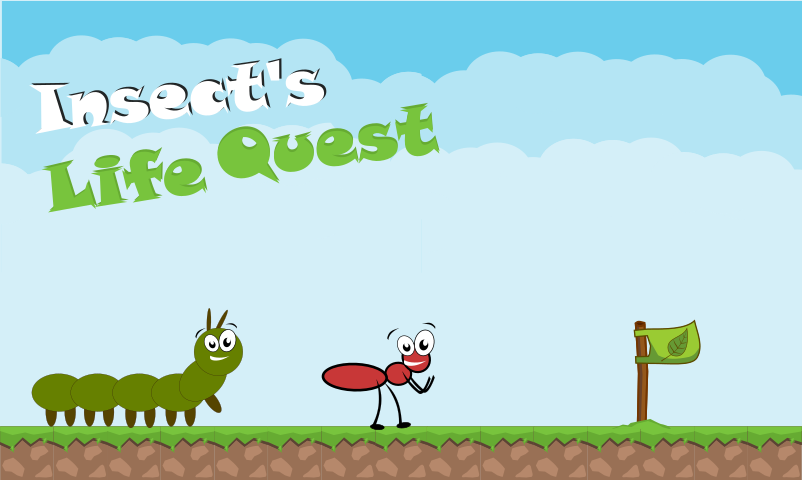
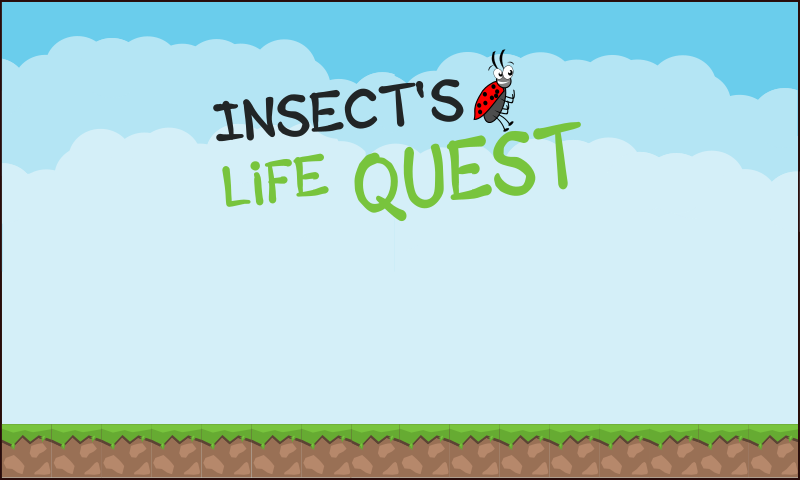
changed game menu

diff --git a/core/src/com/gstrzal/insects/screens/MenuScreen.java b/core/src/com/gstrzal/insects/screens/MenuScreen.java
@@ -23,12 +23,18 @@ import com.gstrzal.insects.utils.GdxUtils;
 
 public class MenuScreen extends ScreenAdapter {
 
-    private static final int PLAY_BUTTON_X = 510;
-    private static final int PLAY_BUTTON_Y = 330;
+    private static final int PLAY_BUTTON_Y = (int)GameConfig.SCREEN_HEIGHT_PX/5;
+    private static final int BUTTONS_Y = PLAY_BUTTON_Y + 6;
+    private static final int OPTIONS_BUTTON_X = 100;
+    private static final int SELECT_LEVELS_BUTTON_X = 525;
 
     private Texture backgroundTexture;
     private Texture playTexture;
     private Texture playPressTexture;
+    private Texture optionsTexture;
+    private Texture optionsPressTexture;
+    private Texture selectLevelsTexture;
+    private Texture selectLevelsPressTexture;
 
     private Stage stage;
     private final Insects game;
@@ -48,12 +54,13 @@ public class MenuScreen extends ScreenAdapter {
         Image background = new Image(backgroundTexture);
         stage.addActor(background);
 
+        //Play Button
         playTexture = assetManager.get(Constants.MENU_PLAYBUTTON);
-        playPressTexture = assetManager.get(Constants.MENU_PLAYBUTTON_ACTIVE);
+        playPressTexture = assetManager.get(Constants.MENU_PLAYBUTTON_PRESSED);
         ImageButton play = new ImageButton(
                 new TextureRegionDrawable(new TextureRegion(playTexture)),
                 new TextureRegionDrawable(new TextureRegion(playPressTexture)));
-        play.setPosition(PLAY_BUTTON_X, PLAY_BUTTON_Y);
+        play.setPosition(GameConfig.SCREEN_WIDTH_PX/2 - playTexture.getWidth()/2, PLAY_BUTTON_Y);
 
         play.addListener(new ActorGestureListener() {
             @Override
@@ -65,6 +72,46 @@ public class MenuScreen extends ScreenAdapter {
             }
         });
         stage.addActor(play);
+
+        //Options Button
+        optionsTexture = assetManager.get(Constants.MENU_OPTIONS);
+        optionsPressTexture = assetManager.get(Constants.MENU_OPTIONS_PRESSED);
+        ImageButton options = new ImageButton(
+                new TextureRegionDrawable(new TextureRegion(optionsTexture)),
+                new TextureRegionDrawable(new TextureRegion(optionsPressTexture)));
+        options.setPosition(OPTIONS_BUTTON_X, BUTTONS_Y);
+
+        options.addListener(new ActorGestureListener() {
+            @Override
+            public void tap(InputEvent event, float x, float y, int count,
+                            int button) {
+                super.tap(event, x, y, count, button);
+//                game.setScreen(new GameScreen(game, 1));
+//                dispose();
+            }
+        });
+        stage.addActor(options);
+
+        //Select Levels Button
+        selectLevelsTexture = assetManager.get(Constants.MENU_SELECT_LEVEL);
+        selectLevelsPressTexture = assetManager.get(Constants.MENU_SELECT_LEVEL_PRESSED);
+        ImageButton selectLevels = new ImageButton(
+                new TextureRegionDrawable(new TextureRegion(selectLevelsTexture)),
+                new TextureRegionDrawable(new TextureRegion(selectLevelsPressTexture)));
+        selectLevels.setPosition(SELECT_LEVELS_BUTTON_X, BUTTONS_Y);
+
+        selectLevels.addListener(new ActorGestureListener() {
+            @Override
+            public void tap(InputEvent event, float x, float y, int count,
+                            int button) {
+                super.tap(event, x, y, count, button);
+//                game.setScreen(new GameScreen(game, 1));
+//                dispose();
+            }
+        });
+        stage.addActor(selectLevels);
+
+
 
     }
     public void resize(int width, int height) {

diff --git a/core/src/com/gstrzal/insects/config/Constants.java b/core/src/com/gstrzal/insects/config/Constants.java
@@ -6,8 +6,13 @@ package com.gstrzal.insects.config;
 
 public class Constants {
     public static final String MENU_BACKGROUND = "menu/insects_menu_800x480.png";
-    public static final String MENU_PLAYBUTTON = "menu/start_button.png";
-    public static final String MENU_PLAYBUTTON_ACTIVE = "menu/start_button_active.png";
+    public static final String MENU_PLAYBUTTON = "menu/button_play_175x100.png";
+    public static final String MENU_PLAYBUTTON_PRESSED = "menu/button_play_pressed_175x100.png";
+    public static final String MENU_OPTIONS = "menu/button_options_175x88.png";
+    public static final String MENU_OPTIONS_PRESSED = "menu/button_options_pressed_175x88.png";
+    public static final String MENU_SELECT_LEVEL = "menu/button_levels_175x88.png";
+    public static final String MENU_SELECT_LEVEL_PRESSED = "menu/button_levels_pressed_175x88.png";
+
     public static final String LEVEL_1 = "levels/ins_level_1.tmx";
     public static final String LEVEL_2 = "levels/ins_level_2.tmx";
     public static final String LEVEL_3 = "levels/ins_level_3.tmx";

diff --git a/core/src/com/gstrzal/insects/screens/LoadingScreen.java b/core/src/com/gstrzal/insects/screens/LoadingScreen.java
@@ -48,7 +48,11 @@ public class LoadingScreen extends ScreenAdapter{
         shapeRenderer = new ShapeRenderer();
         assetManager.load(Constants.MENU_BACKGROUND, Texture.class);
         assetManager.load(Constants.MENU_PLAYBUTTON, Texture.class);
-        assetManager.load(Constants.MENU_PLAYBUTTON_ACTIVE, Texture.class);
+        assetManager.load(Constants.MENU_PLAYBUTTON_PRESSED, Texture.class);
+        assetManager.load(Constants.MENU_OPTIONS, Texture.class);
+        assetManager.load(Constants.MENU_OPTIONS_PRESSED, Texture.class);
+        assetManager.load(Constants.MENU_SELECT_LEVEL, Texture.class);
+        assetManager.load(Constants.MENU_SELECT_LEVEL_PRESSED, Texture.class);
         assetManager.load(Constants.LEVEL_1, TiledMap.class);
         assetManager.load(Constants.LEVEL_2, TiledMap.class);
         assetManager.load(Constants.LEVEL_3, TiledMap.class);

diff --git a/README.md b/README.md
@@ -2,7 +2,7 @@
 Insect’s Life Quest game proof of concept
 
 <p>
-  <img src="insects_header.png">
+  <img src="insects_menu.png">
 </p>
 
 [Game page on itch.io](https://gabrielstrzal.itch.io/insects-life-quest)
